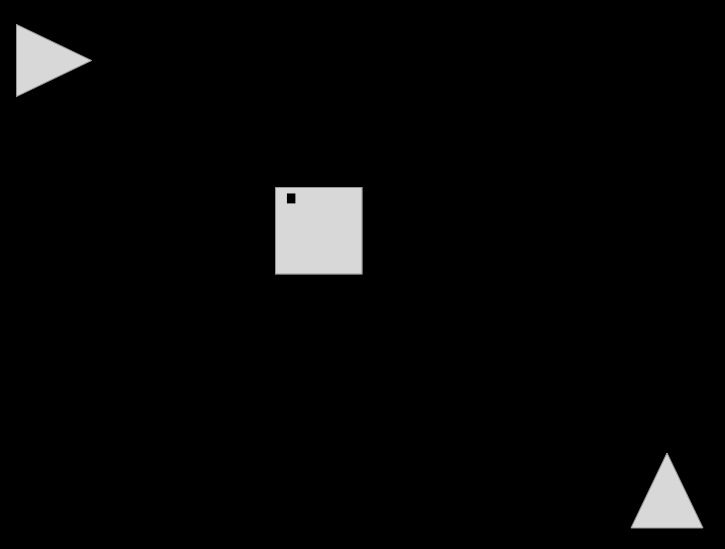
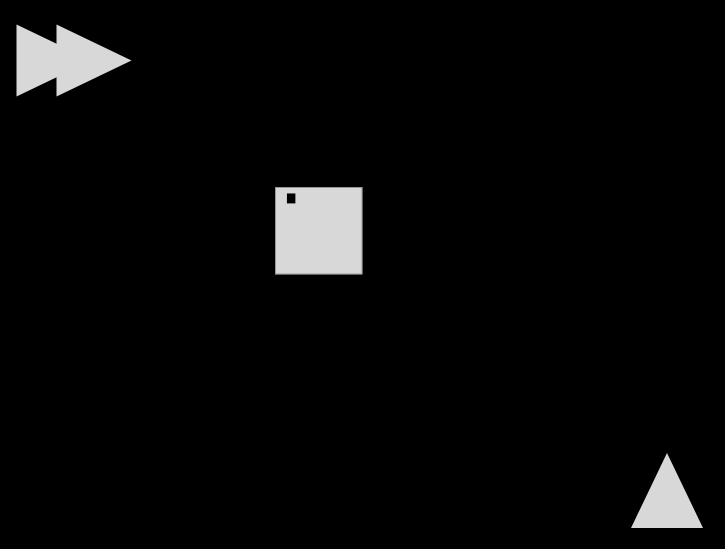
Fixed a bug in LightLink default coord ordering;
Also, seems that Projector calibration is rotationally off. :P

Changed region(s): [[0.0607, 0.031, 0.1821, 0.1858], [0.88, 0.9599, 0.971, 0.9909]]

diff --git a/src/Worlds/Calibration/ProjectorCalibrateWorld.cpp b/src/Worlds/Calibration/ProjectorCalibrateWorld.cpp
@@ -52,6 +52,7 @@ void ProjectorCalibrateWorld::updateVision( const Vision::Output& visionOut, Pip
 	if ( f.isComplete() && (!mFound.isComplete() || mWaitFrames-- < 0) )
 	{
 		mFound = f;
+		mFoundContours = mContours;
 
 		updateCalibration(
 			mProjectRect,
@@ -65,6 +66,7 @@ void ProjectorCalibrateWorld::updateVision( const Vision::Output& visionOut, Pip
 void ProjectorCalibrateWorld::updateCalibration ( Rectf in, PolyLine2 out, int outStart )
 {
 	vec2 image[4] = { in.getUpperLeft(), in.getUpperRight(), in.getLowerRight(), in.getLowerLeft() };
+//	vec2 image[4] = { in.getLowerRight(), in.getLowerLeft(), in.getUpperLeft(), in.getUpperRight() };
 	vec2 world[4];
 	
 	for( int i=0; i<4; ++i ) world[i] = out.getPoints()[ (i+outStart)%4 ];
@@ -149,7 +151,6 @@ void ProjectorCalibrateWorld::draw( DrawType drawType )
 	if (!mProjectorStage) return;
 
 	// draw registration marks in projector space
-	if ( drawType==DrawType::Projector || !(TablaApp::get()->mDebugFrame) )
 	{
 		// undo the world transform, so we draw in projector image space
 		gl::ScopedViewMatrix matscope;
@@ -176,9 +177,12 @@ void ProjectorCalibrateWorld::draw( DrawType drawType )
 		}
 		
 		// draw registration marks
-		gl::color(1,1,1);
+		float alpha = 1.f;
+		if ( drawType!=DrawType::Projector && TablaApp::get()->mDebugFrame ) alpha=.25f;
+		
+		gl::color(1,1,1,alpha);
 		gl::drawSolidRect(mProjectRect);
-		gl::color(0,0,0);
+		gl::color(0,0,0,alpha);
 		gl::drawSolidRect(mProjectRectHole);
 		
 		//
@@ -203,18 +207,18 @@ void ProjectorCalibrateWorld::draw( DrawType drawType )
 		if ( mFound.mRect!=-1 )
 		{
 			gl::color(0,1,1);
-			gl::draw(mContours[mFound.mRect].mPolyLine);
+			gl::draw(mFoundContours[mFound.mRect].mPolyLine);
 		}
 		if ( mFound.mHole!=-1 )
 		{
 			gl::color(1,0,0);
-			gl::draw(mContours[mFound.mHole].mPolyLine);
+			gl::draw(mFoundContours[mFound.mHole].mPolyLine);
 		}
 		if ( mFound.mCorner!=-1 )
 		{
 			gl::color(1,0,0);
-			gl::drawSolidCircle(
-				mContours[mFound.mRect].mPolyLine.getPoints()[mFound.mCorner],
+			gl::drawStrokedCircle(
+				mFoundContours[mFound.mRect].mPolyLine.getPoints()[mFound.mCorner],
 				1.f );
 		}
 	}

diff --git a/src/Vision/LightLink.cpp b/src/Vision/LightLink.cpp
@@ -50,10 +50,10 @@ static vector<float> stringToFloatVec( string value )
 LightLink::CaptureProfile::CaptureProfile( string name, vec2 size, float pixelsPerWorldUnit )
 	: mName(name)
 {
-	mCaptureCoords[0] = vec2(0,1) * size;
-	mCaptureCoords[1] = vec2(1,1) * size;
-	mCaptureCoords[2] = vec2(1,0) * size;
-	mCaptureCoords[3] = vec2(0,0) * size;
+	mCaptureCoords[0] = vec2(0,0) * size;
+	mCaptureCoords[1] = vec2(1,0) * size;
+	mCaptureCoords[2] = vec2(1,1) * size;
+	mCaptureCoords[3] = vec2(0,1) * size;
 
 	setWorldCoordsFromCaptureCoords(pixelsPerWorldUnit);
 }
@@ -164,10 +164,10 @@ LightLink::ProjectorProfile::ProjectorProfile( string name, vec2 size, const vec
 	: mName(name)
 	, mProjectorSize(size)
 {
-	mProjectorCoords[0] = vec2(0,1) * size;
-	mProjectorCoords[1] = vec2(1,1) * size;
-	mProjectorCoords[2] = vec2(1,0) * size;
-	mProjectorCoords[3] = vec2(0,0) * size;
+	mProjectorCoords[0] = vec2(0,0) * size;
+	mProjectorCoords[1] = vec2(1,0) * size;
+	mProjectorCoords[2] = vec2(1,1) * size;
+	mProjectorCoords[3] = vec2(0,1) * size;
 	
 	if (captureWorldSpaceCoords)
 	{

diff --git a/src/Worlds/Calibration/ProjectorCalibrateWorld.h b/src/Worlds/Calibration/ProjectorCalibrateWorld.h
@@ -56,6 +56,7 @@ private:
 
 	Pipeline::StageRef mProjectorStage;
 	ContourVec mContours;
+	ContourVec mFoundContours;
 	
 	Found mFound;
 	int mWaitFrames=0;

diff --git a/docs/bugs.md b/docs/bugs.md
@@ -18,6 +18,10 @@
 	- Storing it in app specific settings. Although an up-for-editor-mode type things (Music, Animation) that spans apps might be called for. And a second for long game tables (Pong, Pinball) might also make sense. But more elegant might be per mode. I can imagine a future day in which modes mix more freely (use speed token to define speed for ANY mode, in which case a more general OS type sensibility of shared settings might make more sense)
 - [x] mDrawMouseDebugInfo not being respected in BallWorld -- drawMouseDebugInfo still getting called for some reason.
 
+## Projector Calibration
+
+- [ ] Rotationally off
+
 ## BallWorld
 - Detect, flag, and possibly stabilize or fix stuck balls (in spaces that are too small). Do this in ball world. Track old velocities for last three frames could do the trick. (see if it is oscillating wildly, and maybe even track for how long...; then we have rules for what to do about it when detected.)
 

diff --git a/docs/todo.md b/docs/todo.md
@@ -31,6 +31,10 @@
 
 # Game Worlds
 
+## Projector Calibration
+- [ ] Use cv::cornerSubPix for more accuracy
+- [ ] Account for situations where centered rect is off the table... (use mouse to position it?)
+
 ## Music
 - [ ] Easily configurable for different instrument setups.
 - [ ] Built in synths
